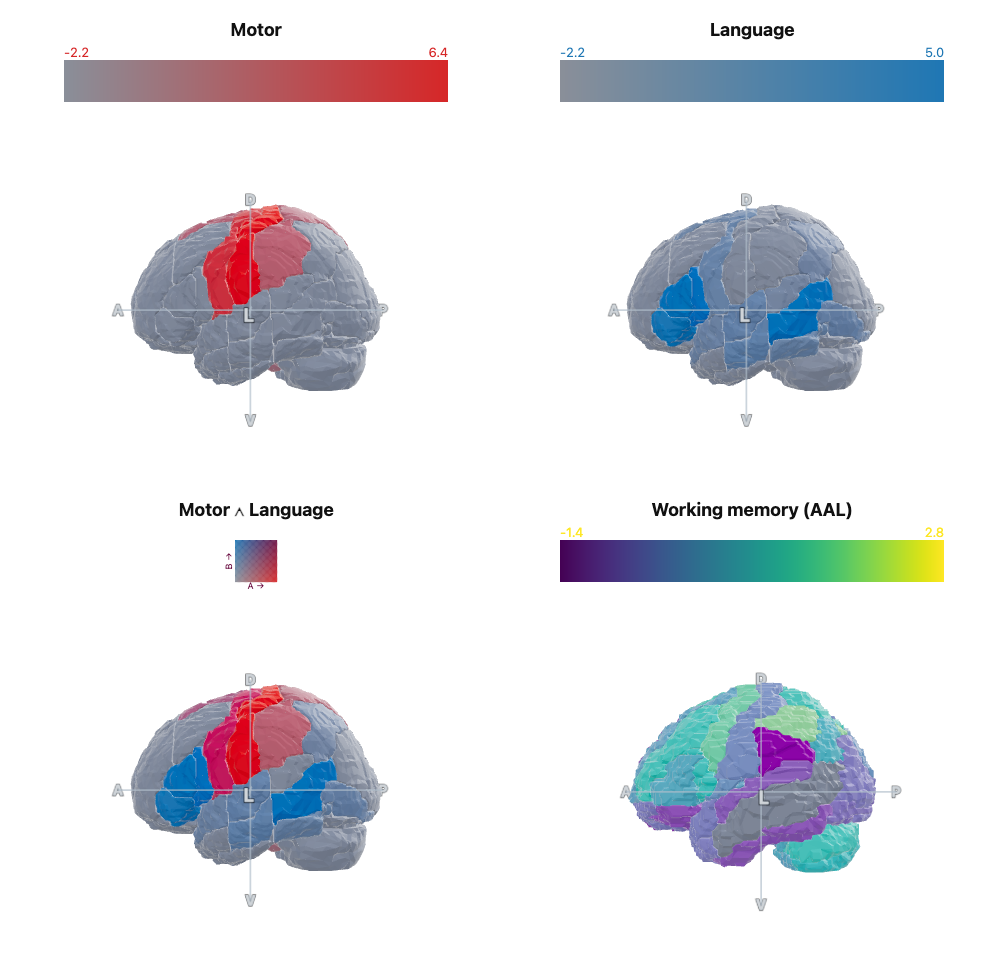
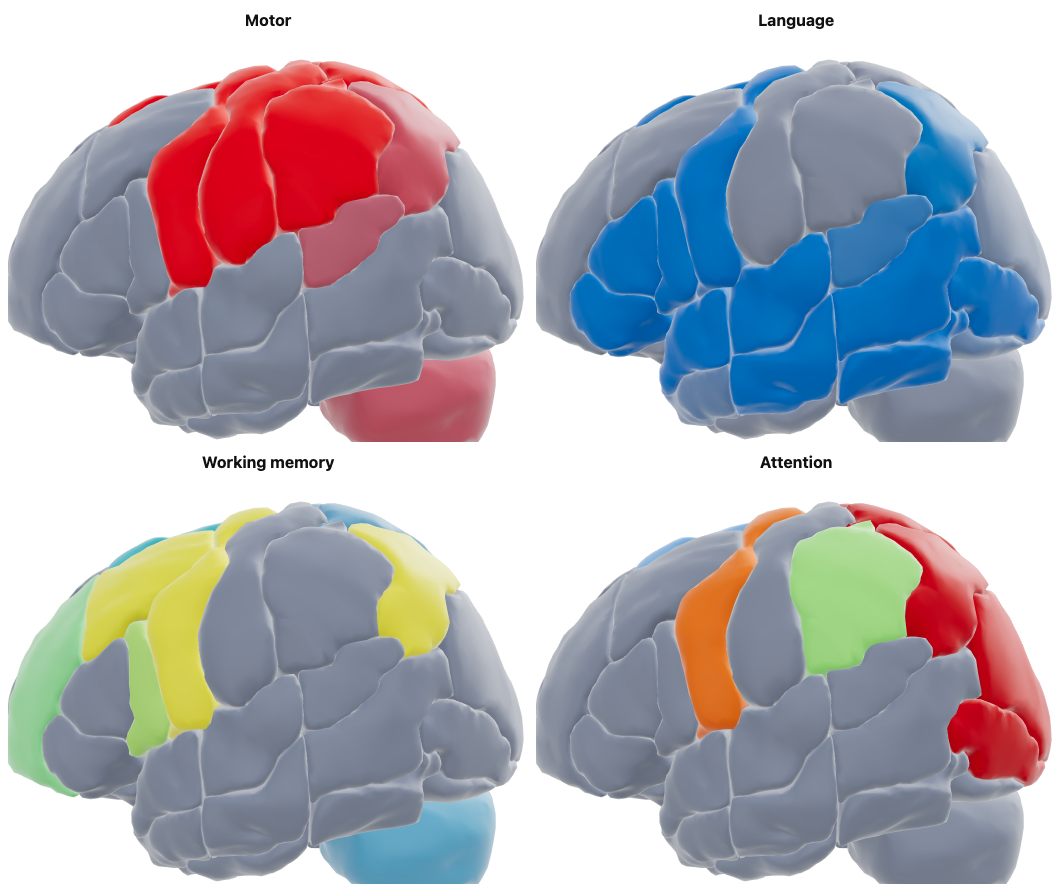
brainWhiz README: publication-quality figure panels + regen fix + strip em-dashes
- make_figure now serves the repo over http (brainAPI's ES module + import-map CDN don't init under file://
  in headless Chrome), uses frameTight for mesh panels, and merges figure.vals as figure-wide appearance
  defaults.
- Recipes (fig_tasks_2x2, fig_motor_language): axis lines/letters off, mesh smoothing 10, vivid+rim, tight
  framing, correct per-overlay colors (new overlays[] format). Regenerated docs/img/figure_example.png
  (Motor red + Language blue) and sample_tasks.png (2x2 task maps) -> big, smooth, gap-free brains.
- Removed all 66 em-dashes from README.

diff --git a/README.md b/README.md
@@ -4,7 +4,7 @@
 
 **Interactive, multi-atlas "exploding-brain" viewer for neuroimaging figures.**
 Render any brain parcellation in 3D, color regions by functional/statistical data,
-draw DTI connectivity, and compose publication-ready figure panels — all in the browser.
+draw DTI connectivity, and compose publication-ready figure panels - all in the browser.
 
 ### ▶ **[Live demo](https://rnorlund.github.io/brainWhiz/)**  ·  `index.html?atlas=aal`
 
@@ -12,14 +12,14 @@ draw DTI connectivity, and compose publication-ready figure panels — all in th
 
 <p align="center">
   <img src="docs/img/exploding_brain.gif" width="460" alt="exploding-brain animation recorded in brainWhiz"><br>
-  <em>Every region is its own 3-D object — explode it, light it up, orbit it. Recorded straight from the viewer (Figure ▸ Record MP4).</em>
+  <em>Every region is its own 3-D object - explode it, light it up, orbit it. Recorded straight from the viewer (Figure ▸ Record MP4).</em>
 </p>
 
 > **Why "brainWhiz"?** There's a well-known finding ([McCabe & Castel, 2008, *Cognition*](https://doi.org/10.1016/j.cognition.2007.07.017))
-> that simply *adding a brain image* to a write-up makes the reasoning seem more credible — it
+> that simply *adding a brain image* to a write-up makes the reasoning seem more credible - it
 > measurably nudged people toward believing (and editors toward publishing). It's the neuroscience
 > equivalent of squirting **Cheez Whiz on a cracker**: same cracker, but suddenly far more
-> appetizing. brainWhiz is the can of Cheez Whiz for your data — point it at your results and get a
+> appetizing. brainWhiz is the can of Cheez Whiz for your data - point it at your results and get a
 > figure that makes the whole thing go down easier. (Use the garnish responsibly. 🧠🧀)
 
 ---
@@ -27,20 +27,20 @@ draw DTI connectivity, and compose publication-ready figure panels — all in th
 ## Highlights
 
 - **16 bundled atlases**, switchable from a dropdown (JHU, AAL/AAL3, AICHA, Harvard-Oxford, Brodmann, …).
-- **Bring your own data — no install:** drag-and-drop NIfTI (`.nii/.nii.gz`, 3D **and 4D**), **GIFTI** & **FreeSurfer** surfaces, **TRK/TCK** tractography, per-region **CSV**, figure recipes (`.bwz`).
-- **Build an atlas in the browser** from a label `.nii` (+ labels `.txt`) — Surface-Nets meshing, no Python. A T1 → a smooth brain surface, also in-browser.
-- **Every ROI is its own 3D object** — explode, rotate, isolate, recolor, fade.
-- **Overlay stack** — task maps *and* your own MNI maps, each with color/colormap/threshold/|abs|/TFCE, plus **✂ crop-to-background** to hide out-of-brain artifacts; one drives the 3D brain, all blend in slices/mosaic.
-- **4D timeseries** — scrub/▶ play a 4D overlay; the 3D mesh and 2D slices animate while you orbit.
-- **45-look shading library** — Cartoon (MRIcroGL pink+ink), Gooch, X-ray, Iridescent, Thermal, Hatching, Hologram… + a 16-material **matcap** set (gold, chrome, jade, ruby, glass…), all procedural; **✒ ink outline**; thumbnail previews in the menu.
-- **✨ Functional fMRI sparkle** — active regions glimmer/twinkle to signal live activity while you orbit.
-- **Volume rendering** — GLSL raymarch (MIP / Accumulate / MinIP / X-ray-DRR / Isosurface) of a map as glowing voxels **inside a glass brain**.
-- **White-matter tracts** — solid hulls *or* synthesized **fiber strands** (white, or DTI-orientation colored).
-- **Three view modes** — 3D mesh, ortho slices, mosaic/lightbox — with **28 colormaps** and TFCE.
-- **Connectivity, two kinds** — **DTI** structural (measured for JHU/AICHA) *and* **rs-fMRI** functional (measured for 7 atlases, estimated for 7 more); strength-sized cylinders, colormaps, pulsing flow, and arced 3D arrows. Switch DTI ↔ rs-fMRI per atlas.
-- **Projector** — cast an image / video / **webcam** onto the cortex; surface-conforming, shaped, **outlined decals**.
-- **🥔 PotatoHead** — paint realistic face features on a T1-derived head (MRI re-identification / privacy demo).
-- **Outputs** — PNG, **MP4/WebM recording**, a **🔗 living interactive `.html`** figure (rotate/zoom/explode), a **🎬 keyframe director → narrated MP4**, and multi-panel figure builder (PNG/PDF/SVG/`.bwz`).
+- **Bring your own data - no install:** drag-and-drop NIfTI (`.nii/.nii.gz`, 3D **and 4D**), **GIFTI** & **FreeSurfer** surfaces, **TRK/TCK** tractography, per-region **CSV**, figure recipes (`.bwz`).
+- **Build an atlas in the browser** from a label `.nii` (+ labels `.txt`) - Surface-Nets meshing, no Python. A T1 → a smooth brain surface, also in-browser.
+- **Every ROI is its own 3D object** - explode, rotate, isolate, recolor, fade.
+- **Overlay stack** - task maps *and* your own MNI maps, each with color/colormap/threshold/|abs|/TFCE, plus **✂ crop-to-background** to hide out-of-brain artifacts; one drives the 3D brain, all blend in slices/mosaic.
+- **4D timeseries** - scrub/▶ play a 4D overlay; the 3D mesh and 2D slices animate while you orbit.
+- **45-look shading library** - Cartoon (MRIcroGL pink+ink), Gooch, X-ray, Iridescent, Thermal, Hatching, Hologram… + a 16-material **matcap** set (gold, chrome, jade, ruby, glass…), all procedural; **✒ ink outline**; thumbnail previews in the menu.
+- **✨ Functional fMRI sparkle** - active regions glimmer/twinkle to signal live activity while you orbit.
+- **Volume rendering** - GLSL raymarch (MIP / Accumulate / MinIP / X-ray-DRR / Isosurface) of a map as glowing voxels **inside a glass brain**.
+- **White-matter tracts** - solid hulls *or* synthesized **fiber strands** (white, or DTI-orientation colored).
+- **Three view modes** - 3D mesh, ortho slices, mosaic/lightbox - with **28 colormaps** and TFCE.
+- **Connectivity, two kinds** - **DTI** structural (measured for JHU/AICHA) *and* **rs-fMRI** functional (measured for 7 atlases, estimated for 7 more); strength-sized cylinders, colormaps, pulsing flow, and arced 3D arrows. Switch DTI ↔ rs-fMRI per atlas.
+- **Projector** - cast an image / video / **webcam** onto the cortex; surface-conforming, shaped, **outlined decals**.
+- **🥔 PotatoHead** - paint realistic face features on a T1-derived head (MRI re-identification / privacy demo).
+- **Outputs** - PNG, **MP4/WebM recording**, a **🔗 living interactive `.html`** figure (rotate/zoom/explode), a **🎬 keyframe director → narrated MP4**, and multi-panel figure builder (PNG/PDF/SVG/`.bwz`).
 
 | Functional overlay (gray brain + activation) | AICHA atlas (384 ROIs) |
 |---|---|
@@ -51,7 +51,7 @@ draw DTI connectivity, and compose publication-ready figure panels — all in th
 ## 🖼 Gallery
 
 A **circular, interactive gallery** of 16 things brainWhiz can do: **[gallery.html](https://rnorlund.github.io/brainWhiz/gallery.html)**.
-A central brainWhiz render is ringed by live demo plates — click any to launch that exact demo
+A central brainWhiz render is ringed by live demo plates - click any to launch that exact demo
 (`index.html?demo=<id>`). Thumbnails, the keyframe-flythrough video, and the `?demo=` recipes live in
 [`exampleFiles/`](exampleFiles/). Full scripting reference: **[API.md](API.md)**.
 
@@ -59,7 +59,7 @@ A central brainWhiz render is ringed by live demo plates — click any to launch
 
 ## 🔗 Embed it (like NiiVue)
 
-Put a live, rotatable brainWhiz view in any web page — a NeuroSynth/NeuroQuery result, a lab
+Put a live, rotatable brainWhiz view in any web page - a NeuroSynth/NeuroQuery result, a lab
 site, an online journal article. Add `?embed=1` to hide all chrome (just the 3D viewport) and
 point the params at your data:
 
@@ -75,7 +75,7 @@ or a built-in `demo=`. For a fully self-contained, offline embed, export a **liv
 (Figure ▸ Export interactive .html) and host that one file.
 
 Want the host page to drive it **live** (swap overlay, move camera, change colormap) with no
-reload? brainWhiz speaks `postMessage` both ways — `{brainWhiz:true, cmd:'loadOverlay', url:…}`.
+reload? brainWhiz speaks `postMessage` both ways - `{brainWhiz:true, cmd:'loadOverlay', url:…}`.
 Full URL + `postMessage` reference: **[API.md §1b](API.md)**.
 
 ---
@@ -89,67 +89,67 @@ Full URL + `postMessage` reference: **[API.md §1b](API.md)**.
 **Local:** open `index.html` in Chrome/Safari (needs internet for the Three.js CDN).
 Switch atlas with the **Atlas** dropdown or the URL: `index.html?atlas=jhu` (`aal`, `bro`, `aicha`, `catani`, `fox`).
 
-> Loading a statistical `.nii/.nii.gz` works fully offline via the file picker — no server needed.
+> Loading a statistical `.nii/.nii.gz` works fully offline via the file picker - no server needed.
 
 ---
 
 ## Atlases (16 bundled)
 
-![16 atlases — JHU, AICHA, Harvard-Oxford, AAL, …](docs/img/multiatlas.png)
+![16 atlases - JHU, AICHA, Harvard-Oxford, AAL, …](docs/img/multiatlas.png)
 
-*Switch parcellation from the dropdown (or `?atlas=…`) — cortical, subcortical, white-matter tract and arterial atlases, all in MNI space.*
+*Switch parcellation from the dropdown (or `?atlas=…`) - cortical, subcortical, white-matter tract and arterial atlases, all in MNI space.*
 
 | id | atlas | ROIs | DTI | rs-fMRI | task maps |
 |----|-------|-----:|:---:|:---:|:---:|
 | `jhu` | JHU (Johns Hopkins) | 189 | ✅ | ✅ | ✅ |
 | `aicha` | AICHA | 384 | ✅ | ✅ | ✅ |
-| `anatomy3` | SPM Anatomy v3 | 186 | – | RS\* | ✅ |
-| `aal3` | AAL3 | 161 | – | RS\* | ✅ |
-| `aalcat` | AAL (categorized) | 150 | – | ✅ | ✅ |
-| `neuromorph` | Neuromorphometrics | 134 | – | RS\* | ✅ |
-| `ho` | Harvard-Oxford | 117 | – | RS\* | ✅ |
-| `aal` | AAL | 116 | – | ✅ | ✅ |
-| `hammers` | Hammers | 95 | – | RS\* | ✅ |
-| `bro` | Brodmann | 82 | – | ✅ | ✅ |
-| `lpba40` | LPBA40 | 56 | – | RS\* | ✅ |
-| `cobra` | COBRA (subcortical/cerebellar) | 52 | – | RS\* | ✅ |
-| `xtract` | XTRACT white-matter tracts | 42 | – | – | ✅ |
-| `arterial` | Arterial territories | 32 | – | – | ✅ |
-| `catani` | Catani tracts | 27 | – | ✅ | ✅ |
-| `fox` | Fox | 10 | – | ✅ | ✅ |
+| `anatomy3` | SPM Anatomy v3 | 186 | - | RS\* | ✅ |
+| `aal3` | AAL3 | 161 | - | RS\* | ✅ |
+| `aalcat` | AAL (categorized) | 150 | - | ✅ | ✅ |
+| `neuromorph` | Neuromorphometrics | 134 | - | RS\* | ✅ |
+| `ho` | Harvard-Oxford | 117 | - | RS\* | ✅ |
+| `aal` | AAL | 116 | - | ✅ | ✅ |
+| `hammers` | Hammers | 95 | - | RS\* | ✅ |
+| `bro` | Brodmann | 82 | - | ✅ | ✅ |
+| `lpba40` | LPBA40 | 56 | - | RS\* | ✅ |
+| `cobra` | COBRA (subcortical/cerebellar) | 52 | - | RS\* | ✅ |
+| `xtract` | XTRACT white-matter tracts | 42 | - | - | ✅ |
+| `arterial` | Arterial territories | 32 | - | - | ✅ |
+| `catani` | Catani tracts | 27 | - | ✅ | ✅ |
+| `fox` | Fox | 10 | - | ✅ | ✅ |
 
 ✅ = measured connectivity bundled · **RS\*** = rs-fMRI *estimated* by overlap-projection from the
-measured atlases ([`interpolate_conn.py`](interpolate_conn.py)) · – = none.
+measured atlases ([`interpolate_conn.py`](interpolate_conn.py)) · - = none.
 
 All atlases are in MNI space. **DTI** (white-matter streamline) connectivity is measured only for
-`jhu` and `aicha` — the only atlases with DTI matrices in the source ABC participant data
+`jhu` and `aicha` - the only atlases with DTI matrices in the source ABC participant data
 (`dti_jhu`/`dti_AICHA`); DTI is **never interpolated** (validated ~r≈0.1, unreliable). **rs-fMRI**
 functional connectivity is measured for **7 atlases** (`jhu`, `aicha`, `aal`, `aalcat`, `bro`,
 `catani`, `fox`) and **estimated (RS\*)** for 7 more by projecting the AICHA/JHU matrices through
-ROI overlap — useful as a prior, not a substitute for measured data. Overlays and task maps work
+ROI overlap - useful as a prior, not a substitute for measured data. Overlays and task maps work
 for **every** atlas (sampled/resampled into each atlas's own grid).
 
 ---
 
 ## Features in detail
 
-**Regions & layout** — explosion (amount / distance / speed) + looping animation; orbit, zoom, pan; sagittal-left default; Top/Side/Front presets; auto-rotate; axis lines & letters with adjustable color and width.
+**Regions & layout** - explosion (amount / distance / speed) + looping animation; orbit, zoom, pan; sagittal-left default; Top/Side/Front presets; auto-rotate; axis lines & letters with adjustable color and width.
 
-**ROI chart** — collapsible groups by lobe; show/hide; per-ROI color pickers; search; **saved region sets** (localStorage) plus built-in **canonical motor** and **canonical LH-language** sets.
+**ROI chart** - collapsible groups by lobe; show/hide; per-ROI color pickers; search; **saved region sets** (localStorage) plus built-in **canonical motor** and **canonical LH-language** sets.
 
-**Coloring** — schemes: by lobe, hemisphere, rainbow, random, single; or **color by value** (overlay) with 28 colormaps. Atlases whose labels don't map to lobes (e.g. Brodmann) auto-default to a distinct per-ROI scheme.
+**Coloring** - schemes: by lobe, hemisphere, rainbow, random, single; or **color by value** (overlay) with 28 colormaps. Atlases whose labels don't map to lobes (e.g. Brodmann) auto-default to a distinct per-ROI scheme.
 
-**Overlays** — build a stack of renameable overlays (each a baked **NeuroQuery** term or your own MNI `.nii/.nii.gz`). On the 3D mesh, the **active** overlay colors each ROI by its **mean value** (style = *gray brain + one color* or *full colormap*; editable range, threshold, invert, |abs|, live colorbar). In **Slices** and **Mosaic**, every visible overlay is **blended** in its own color/colormap/threshold over the MNI152 template (voxel-accurate, anatomy shows through), with optional **TFCE** cluster enhancement per overlay.
+**Overlays** - build a stack of renameable overlays (each a baked **NeuroQuery** term or your own MNI `.nii/.nii.gz`). On the 3D mesh, the **active** overlay colors each ROI by its **mean value** (style = *gray brain + one color* or *full colormap*; editable range, threshold, invert, |abs|, live colorbar). In **Slices** and **Mosaic**, every visible overlay is **blended** in its own color/colormap/threshold over the MNI152 template (voxel-accurate, anatomy shows through), with optional **TFCE** cluster enhancement per overlay.
 
-**Slices & Mosaic** — ortho viewer (axial/sagittal/coronal + 3D, click/drag to navigate, per-plane zoom; voxel heatmap or solid mesh cross-sections) and a publication-style **mosaic / lightbox** of evenly-spaced slices (choose plane, count, columns). Drop either into a figure panel.
+**Slices & Mosaic** - ortho viewer (axial/sagittal/coronal + 3D, click/drag to navigate, per-plane zoom; voxel heatmap or solid mesh cross-sections) and a publication-style **mosaic / lightbox** of evenly-spaced slices (choose plane, count, columns). Drop either into a figure panel.
 
-**Connectivity** — two networks per atlas: **DTI** averaged streamline strength (measured for `jhu`/`aicha`) and **rs-fMRI** functional correlation (measured for 7 atlases, overlap-estimated **RS\*** for 7 more). Pick the network, then threshold and style edges: cylinder radius ∝ strength; color by strength (any colormap) or single color; **pulse** mode animates a bead of light traveling each connection; arced 3-D arrows for directed views.
+**Connectivity** - two networks per atlas: **DTI** averaged streamline strength (measured for `jhu`/`aicha`) and **rs-fMRI** functional correlation (measured for 7 atlases, overlap-estimated **RS\*** for 7 more). Pick the network, then threshold and style edges: cylinder radius ∝ strength; color by strength (any colormap) or single color; **pulse** mode animates a bead of light traveling each connection; arced 3-D arrows for directed views.
 
-**Render & shading** — a **45-look shading library** in the Shading menu (each with a thumbnail preview):
+**Render & shading** - a **45-look shading library** in the Shading menu (each with a thumbnail preview):
 Standard, Matcap, and **Cartoon** (MRIcroGL-style pink cel-shade + black inked folds), plus ~20
-analytic models — **Gooch, Matte, Glossy, Phong, Metal, Anisotropic, Hemispheric, Subsurface, X-ray,
+analytic models - **Gooch, Matte, Glossy, Phong, Metal, Anisotropic, Hemispheric, Subsurface, X-ray,
 Curvature, Curvature 2-tone, Ambient occlusion, Iridescent, Spectral, Thermal, Velvet, Pearl, Chrome,
-Glass, Blueprint, Contour, Wax, Normals, Hatching, Hologram** — and a **16-material matcap library**
+Glass, Blueprint, Contour, Wax, Normals, Hatching, Hologram** - and a **16-material matcap library**
 (Clay, Skin, Pearl, Jade, Bronze, Chrome, Gold, Glass, Wax, Basalt, Copper, Pewter, Ruby, Emerald,
 Sapphire, Porcelain), all procedurally generated (no external assets). Plus a constant-width **✒ ink
 outline** (inverted-hull, composes with any look), an adjustable **base-brain color** (darken to make a
@@ -158,31 +158,31 @@ procedural **checkerboard / stripes / grid / dots / hatch**; per-tier opacity; a
 **Visual dropdowns**: the colormap menus show a gradient swatch and the Shading menu a brain thumbnail
 beside each option.
 
-**Loading data (drag-and-drop)** — drop files onto the viewport; the drop zone splits into **Background / Overlay / Build-atlas** bands (in Mesh view the top band is **Build mesh**). Accepts NIfTI, GIFTI, FreeSurfer, TRK/TCK, CSV, `.bwz`, `.bwzproj` — see [API.md §3](API.md).
+**Loading data (drag-and-drop)** - drop files onto the viewport; the drop zone splits into **Background / Overlay / Build-atlas** bands (in Mesh view the top band is **Build mesh**). Accepts NIfTI, GIFTI, FreeSurfer, TRK/TCK, CSV, `.bwz`, `.bwzproj` - see [API.md §3](API.md).
 
-**Browser-side atlas & surface building** — drop a **label `.nii`** (+ optional labels `.txt`) and brainWhiz extracts a full parcellation in-browser (Gaussian-smoothed **Surface Nets**, lobe-colored, named) — no `build_bundle.py` needed. A **continuous T1** builds one smooth brain surface (matcap).
+**Browser-side atlas & surface building** - drop a **label `.nii`** (+ optional labels `.txt`) and brainWhiz extracts a full parcellation in-browser (Gaussian-smoothed **Surface Nets**, lobe-colored, named) - no `build_bundle.py` needed. A **continuous T1** builds one smooth brain surface (matcap).
 
-**Surfaces & tractography** — load **GIFTI** (`.gii`) and **FreeSurfer** surfaces directly; load **TRK/TCK** streamlines rendered as fine DTI-orientation-colored lines. White-matter tract atlases (XTRACT/Catani) render as solid hulls **or** synthesized **fiber strands** (group-average look, individual fibers; white or DTI-colored), with a fiber-density control.
+**Surfaces & tractography** - load **GIFTI** (`.gii`) and **FreeSurfer** surfaces directly; load **TRK/TCK** streamlines rendered as fine DTI-orientation-colored lines. White-matter tract atlases (XTRACT/Catani) render as solid hulls **or** synthesized **fiber strands** (group-average look, individual fibers; white or DTI-colored), with a fiber-density control.
 
-**4D timeseries** — drop a 4D overlay and a **▶ frame player** appears; the 3D mesh colors and the 2D slices animate frame-by-frame (stable range) while you orbit/zoom.
+**4D timeseries** - drop a 4D overlay and a **▶ frame player** appears; the 3D mesh colors and the 2D slices animate frame-by-frame (stable range) while you orbit/zoom.
 
-**Volume rendering** — raymarch the active overlay as a 3D `Data3DTexture` with five transfer functions:
-**MIP** (max), **Accumulate** (composite), **MinIP** (min), **X-ray / DRR** (attenuation integral —
+**Volume rendering** - raymarch the active overlay as a 3D `Data3DTexture` with five transfer functions:
+**MIP** (max), **Accumulate** (composite), **MinIP** (min), **X-ray / DRR** (attenuation integral -
 simulated radiograph), and **Isosurface** (gradient-lit solid). Threshold/opacity/colormap/quality; pair
 with the **glass brain** to see glowing voxels inside the shell. 4D volumes animate on playback.
 
-**Functional sparkle (fMRI)** — a **✨ toggle** in the overlay editor makes active overlay regions
-*glimmer/twinkle* (strength / speed / twinkle-sharpness sliders) — a slow glow plus sharp per-region
+**Functional sparkle (fMRI)** - a **✨ toggle** in the overlay editor makes active overlay regions
+*glimmer/twinkle* (strength / speed / twinkle-sharpness sliders) - a slow glow plus sharp per-region
 twinkle that signals "this is live/functional," especially while orbiting or zooming. Works under any
 shading model; the inactive base brain stays calm.
 
-**Projector** — project an image, video, or **webcam** onto the cortex (wrap, project-from-view, or **decal stamp**). Decals conform to the surface, take **shapes** (circle/heart/star/…), and support **editable size/rotation + an outline** (color & thickness).
+**Projector** - project an image, video, or **webcam** onto the cortex (wrap, project-from-view, or **decal stamp**). Decals conform to the surface, take **shapes** (circle/heart/star/…), and support **editable size/rotation + an outline** (color & thickness).
 
-**🥔 PotatoHead (privacy demo)** — paint realistic, surface-conforming face features (eyes, brows, nose, mouth, glasses, ears) onto a T1-derived head, plus 3D hair — a hands-on demonstration of the MRI face-reconstruction re-identification risk (cf. Schwarz et al., *NEJM* 2019).
+**🥔 PotatoHead (privacy demo)** - paint realistic, surface-conforming face features (eyes, brows, nose, mouth, glasses, ears) onto a T1-derived head, plus 3D hair - a hands-on demonstration of the MRI face-reconstruction re-identification risk (cf. Schwarz et al., *NEJM* 2019).
 
-**Shareable outputs** — **PNG**; **MP4/WebM** screen recording of the 3D viewport; a **🔗 living interactive `.html`** figure (self-contained, rotate/zoom/explode — for journal supplementary); and a **🎬 keyframe director** that interpolates camera/explode/overlay/4D/caption keyframes and records a captioned MP4 flythrough.
+**Shareable outputs** - **PNG**; **MP4/WebM** screen recording of the 3D viewport; a **🔗 living interactive `.html`** figure (self-contained, rotate/zoom/explode - for journal supplementary); and a **🎬 keyframe director** that interpolates camera/explode/overlay/4D/caption keyframes and records a captioned MP4 flythrough.
 
-**Access** — the public site is open (the password gate is disabled; re-enable by deleting one `return;` line in the gate IIFE). Embeds (`?embed=1`) are never gated. Local use and the Engine edition are ungated.
+**Access** - the public site is open (the password gate is disabled; re-enable by deleting one `return;` line in the gate IIFE). Embeds (`?embed=1`) are never gated. Local use and the Engine edition are ungated.
 
 ---
 
@@ -202,7 +202,7 @@ node make_figure.mjs figure_example.json
 Each panel sets its own atlas, view, overlay, colors, explosion, etc. (`figure_example.json` included).
 
 ### Shareable figure recipes (`.bwz`)
-A **`.bwz`** file is a portable, human-/Claude-readable JSON that captures a whole figure —
+A **`.bwz`** file is a portable, human-/Claude-readable JSON that captures a whole figure -
 grid, per-panel atlas, overlay (task term *or* `.nii` filename), combine mode, colors,
 camera, visible regions, and all render + figure settings.
 
@@ -213,7 +213,7 @@ camera, visible regions, and all render + figure settings.
   node make_figure.mjs figure.bwz --root /path/to/nii-folder --out figure.png
   ```
 - Because it's plain JSON ([`example.bwz`](example.bwz) included), you can ask **Claude**:
-  *"write a brainWhiz .bwz for a 2×2 of motor, language, motor−language, and a working-memory map"* —
+  *"write a brainWhiz .bwz for a 2×2 of motor, language, motor−language, and a working-memory map"* -
   then render it. Share `.bwz` + the `.nii` files and anyone recreates your exact figure.
 
 The viewer exposes **`window.brainAPI`** for headless control:
@@ -250,7 +250,7 @@ Requires `nibabel numpy scikit-image trimesh fast_simplification scipy` (+ `neur
 ### Your own atlas + per-region values (CSV)
 
 Have a parcellation **brainWhiz doesn't ship** and a CSV of one value per region (factor
-loadings, scores, betas…)? It's a two-step flow — build the bundle once (offline), then drop
+loadings, scores, betas…)? It's a two-step flow - build the bundle once (offline), then drop
 the CSV onto it in the browser (no rebuild needed when the values change):
 
 ```bash
@@ -307,7 +307,7 @@ Ready-to-run recipes in [`examples/`](examples/) + shareable sample stat maps:
 |------|----------------|
 | [`example.bwz`](example.bwz) | 1×2: motor + language (3D meshes) |
 | [`examples/fig_tasks_2x2.bwz`](examples/fig_tasks_2x2.bwz) | 2×2 of task maps (no files needed) |
-| [`examples/fig_files.bwz`](examples/fig_files.bwz) | multi-overlay slice blend — motor (red) + language (blue); run with `--root examples` |
+| [`examples/fig_files.bwz`](examples/fig_files.bwz) | multi-overlay slice blend - motor (red) + language (blue); run with `--root examples` |
 | `examples/neuroquery_{motor,language,working_memory}.nii.gz` | sample MNI stat maps to load as overlays |
 
 ```bash
@@ -334,41 +334,41 @@ brainWhiz works **fully offline** with no CDN: the libraries are vendored in `ve
   fast_simplification scipy` (+ `neuroquery nilearn` for task maps). Overlays/atlases must be **MNI152**.
 
 ## Editing the project (Claude Code friendly)
-Clone the repo and open it in **Claude Code** — [`CLAUDE.md`](CLAUDE.md) orients the assistant on
+Clone the repo and open it in **Claude Code** - [`CLAUDE.md`](CLAUDE.md) orients the assistant on
 the architecture and common edits, and [`BWZ_FORMAT.md`](BWZ_FORMAT.md) documents every figure option.
 You can literally say *"add an atlas / new colormap / a 3×2 figure of these contrasts"* and it has the
 context to do it. `.bwz` files are plain JSON, so they're easy to hand-edit or have Claude generate.
 
 ## Data sources & citation
 - **Atlases** (JHU, AAL, AICHA, Brodmann, Harvard-Oxford, Neuromorphometrics, Hammers, LPBA40, COBRA,
-  Anatomy v3, AAL3, Catani, XTRACT, Fox, arterial) — © their respective authors; cite the original atlas.
-- **Task maps** — [NeuroQuery](https://neuroquery.org) (open).
-- **DTI/rsfMRI connectivity** — averaged from ABC-study participant data.
+  Anatomy v3, AAL3, Catani, XTRACT, Fox, arterial) - © their respective authors; cite the original atlas.
+- **Task maps** - [NeuroQuery](https://neuroquery.org) (open).
+- **DTI/rsfMRI connectivity** - averaged from ABC-study participant data.
 - Please cite the original atlas/NeuroQuery sources in any publication. To cite the tool, see
   [`CITATION.cff`](CITATION.cff).
 
 **DOI / archiving (Zenodo).** Releases are archived on Zenodo with a permanent DOI.
-Cite the **concept DOI** [`10.5281/zenodo.21246441`](https://doi.org/10.5281/zenodo.21246441) — it always
+Cite the **concept DOI** [`10.5281/zenodo.21246441`](https://doi.org/10.5281/zenodo.21246441) - it always
 resolves to the latest version. APA:
 
 > Newman-Norlund, R. D. (2026). *brainWhiz: Interactive multi-atlas visualization of brain parcellations and region-mapped data* (Version 1.2.1) [Computer software]. Zenodo. https://doi.org/10.5281/zenodo.21246441
 
 Please also cite the original atlas / NeuroQuery / connectivity sources used in your figure.
 
-## Editions — Research vs. Engine
+## Editions - Research vs. Engine
 
 This repo contains **two editions**:
 
-- **Research edition** (the repo root) — ships all 16 atlases + NeuroQuery task maps + ABC
+- **Research edition** (the repo root) - ships all 16 atlases + NeuroQuery task maps + ABC
   connectivity + the MNI152 template. CC BY-NC 4.0 (noncommercial). This is what you use to test
   and make figures.
-- **Engine edition** (`engine/`) — the *same app with no third-party data*, for commercial use.
+- **Engine edition** (`engine/`) - the *same app with no third-party data*, for commercial use.
   It ships only a **procedurally-generated synthetic atlas + template** (`make_synth_atlas.py`,
-  100% original / license-free, clearly labelled "Synthetic" — not real anatomy) so it works out
+  100% original / license-free, clearly labelled "Synthetic" - not real anatomy) so it works out
   of the box; users bring their own real atlas (`build_bundle.py`), overlays (`.nii`/`.csv`), and
   slice underlay. See [`engine/README.md`](engine/README.md) and [`engine/THIRD_PARTY.md`](engine/THIRD_PARTY.md).
 
-`engine/` is **generated** — never hand-edit it. After changing the main app, resync with:
+`engine/` is **generated** - never hand-edit it. After changing the main app, resync with:
 
 ```bash
 node build_engine.mjs              # regenerate engine/ (app minus data, + synthetic atlas)
@@ -383,25 +383,25 @@ are the bundled research **datasets**, which the engine edition simply doesn't s
 ## License
 
 © 2026 Roger Newman-Norlund. **All rights reserved except as granted.** **Noncommercial use
-only** — licensed under [Creative Commons Attribution-NonCommercial 4.0 International
+only** - licensed under [Creative Commons Attribution-NonCommercial 4.0 International
 (CC BY-NC 4.0)](LICENSE), reinforced by the explicit terms in [`NOTICE.md`](NOTICE.md).
 
 Free for research, education, personal, and other noncommercial purposes (incl. academic papers
 and figures), **with attribution** and notices kept intact. **Not permitted without a separate
-written commercial license:** any commercial use — in/for a product, a paid or hosted/SaaS or
-ad-supported service, or a consulting deliverable — plus sublicensing, resale, relicensing, or
+written commercial license:** any commercial use - in/for a product, a paid or hosted/SaaS or
+ad-supported service, or a consulting deliverable - plus sublicensing, resale, relicensing, or
 stripping notices. For commercial licensing, contact **Roger Newman-Norlund
 (rnorlund@mailbox.sc.edu)**.
 
 The bundled atlases, NeuroQuery maps, and ABC-derived DTI/rsfMRI connectivity are **third-party
-data under their own terms**, included for noncommercial research use only — comply with and
+data under their own terms**, included for noncommercial research use only - comply with and
 cite the original sources. Provided **"as is", no warranty**; not a medical device; not for
 clinical use.
 
 ## Notes & credits
 
 - Task maps use **NeuroQuery** (the modern successor to Neurosynth); edit `NEURO_TERMS` in `build_bundle.py` to change them.
-- **DTI** connectivity is averaged from ABC-participant `.mat` files (`dti_jhu` / `dti_AICHA` fields). **rs-fMRI** functional connectivity is bundled for 7 atlases; the **RS\*** atlases are *estimated* by projecting the measured AICHA/JHU matrices through ROI overlap ([`interpolate_conn.py`](interpolate_conn.py)) — a prior, not measured data. DTI is never interpolated.
+- **DTI** connectivity is averaged from ABC-participant `.mat` files (`dti_jhu` / `dti_AICHA` fields). **rs-fMRI** functional connectivity is bundled for 7 atlases; the **RS\*** atlases are *estimated* by projecting the measured AICHA/JHU matrices through ROI overlap ([`interpolate_conn.py`](interpolate_conn.py)) - a prior, not measured data. DTI is never interpolated.
 - Lobe grouping is a name-based heuristic for coloring, not a formal parcellation.
 
 🤖 Built with [Claude Code](https://claude.com/claude-code)
